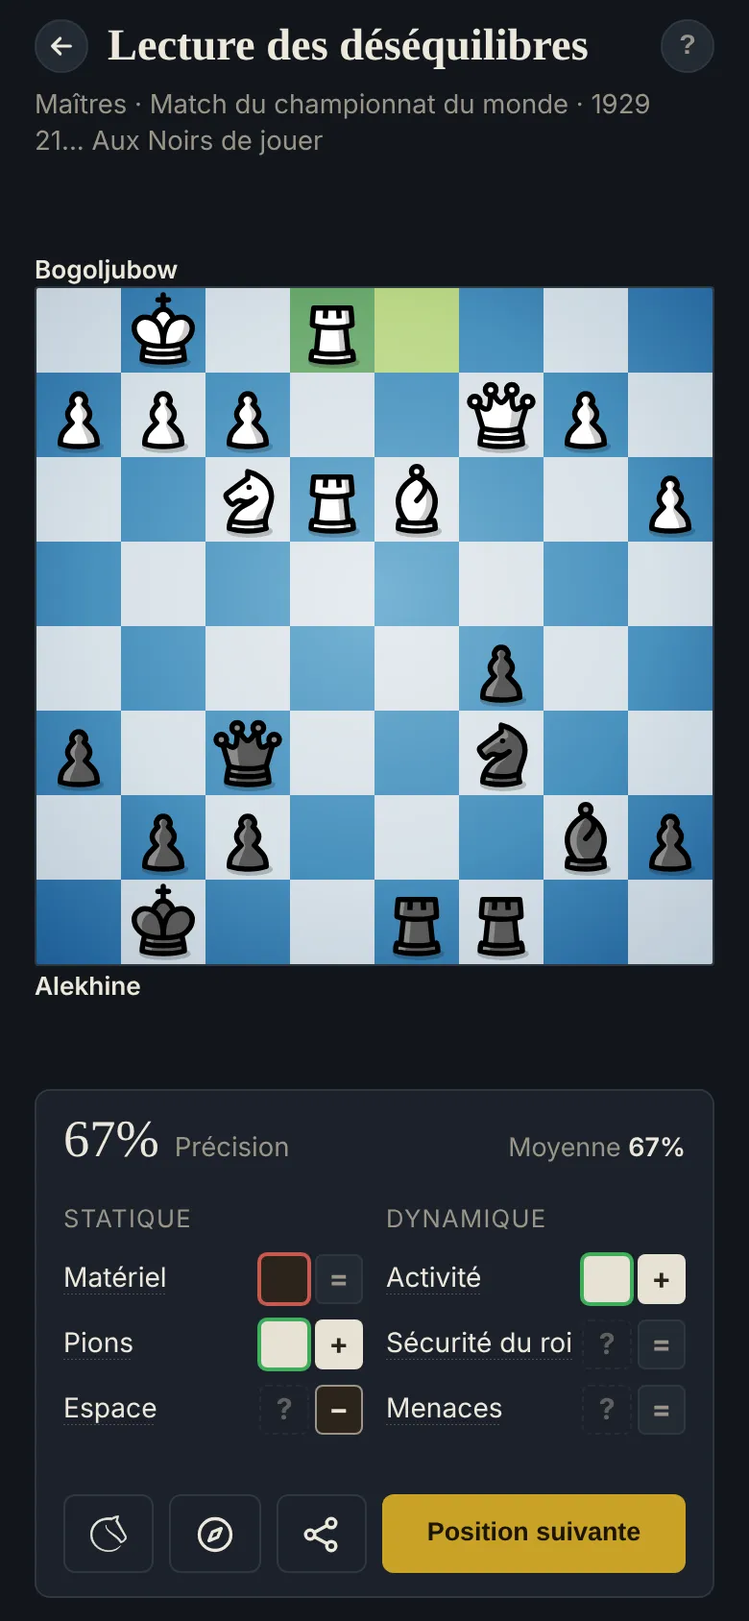
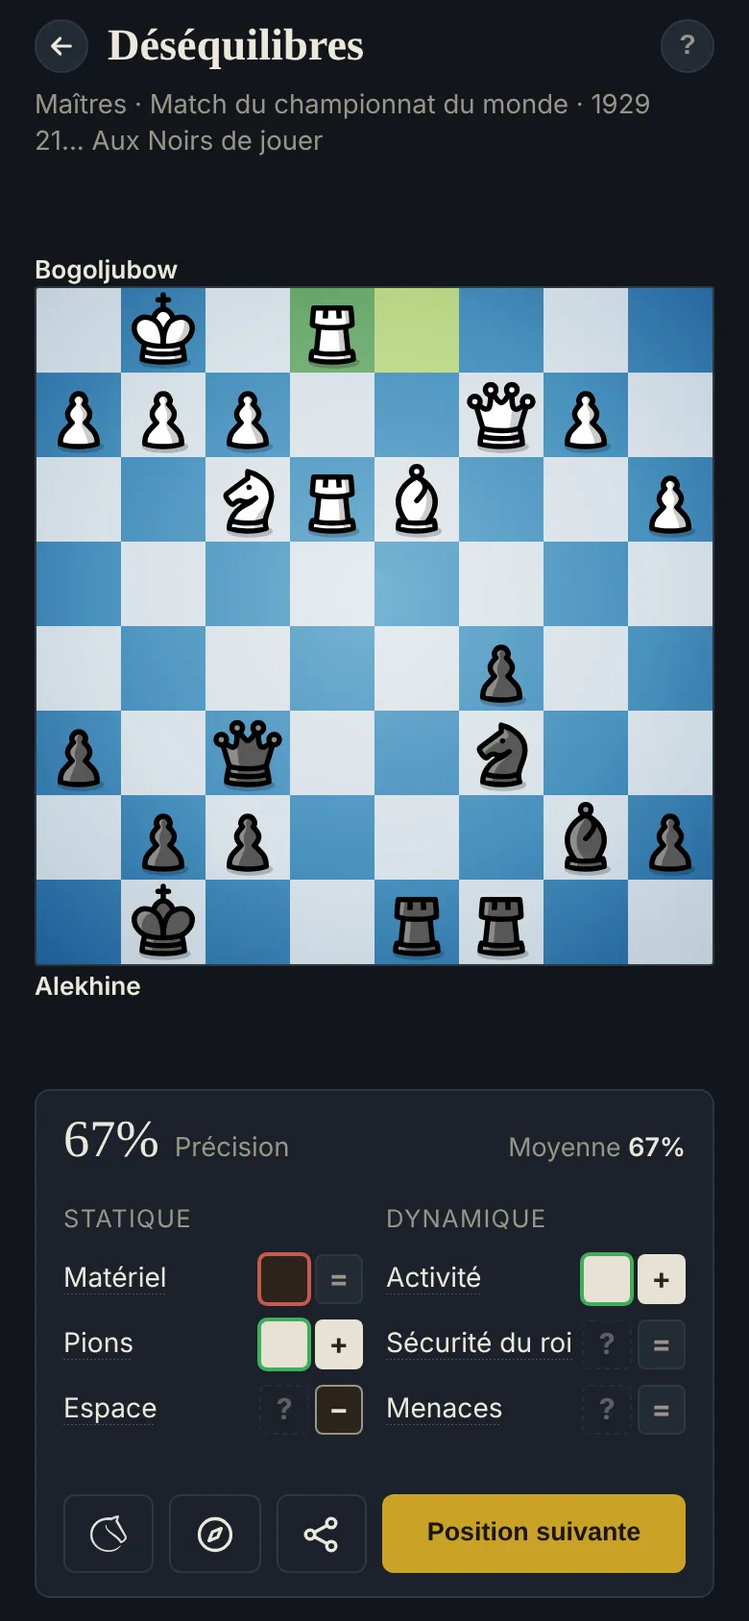
French: the Imbalance reading exercise is now Déséquilibres (app, guide, FAQ, screenshot)
Claude-Session: https://claude.ai/code/session_01MnfZY7zM1xtVVHQnQ5TNNV

Changed region(s): [[0.1538, 0.0, 0.7692, 0.0616]]

diff --git a/fr/guides/index.html b/fr/guides/index.html
@@ -18,7 +18,7 @@
 <meta name="twitter:card" content="summary_large_image">
 <meta name="theme-color" content="#12161B">
 <link rel="icon" type="image/svg+xml" href="../../icons/icon.svg">
-<script type="application/ld+json">[{"@context": "https://schema.org", "@type": "CollectionPage", "name": "Questions fréquentes", "url": "https://chessstrategy.org/fr/guides/", "inLanguage": "fr", "hasPart": [{"@type": "Article", "headline": "Les déséquilibres aux échecs : apprendre à lire une position", "url": "https://chessstrategy.org/fr/guides/desequilibres-aux-echecs/"}, {"@type": "Article", "headline": "Comment trouver un plan aux échecs", "url": "https://chessstrategy.org/fr/guides/trouver-un-plan-aux-echecs/"}, {"@type": "Article", "headline": "Les coups candidats aux échecs : trouver plus d'un bon coup", "url": "https://chessstrategy.org/fr/guides/coups-candidats/"}, {"@type": "Article", "headline": "Comment choisir le meilleur coup aux échecs", "url": "https://chessstrategy.org/fr/guides/choisir-le-meilleur-coup/"}]}, {"@context": "https://schema.org", "@type": "FAQPage", "inLanguage": "fr", "mainEntity": [{"@type": "Question", "name": "Qu'est-ce qu'elle entraîne ?", "acceptedAnswer": {"@type": "Answer", "text": "La stratégie : que faire dans une position calme, quand il n'y a pas de tactique à trouver. Les applications de puzzles entraînent très bien la tactique, mais la plupart des parties se décident dans des positions où la question n'est pas « qu'est-ce qui gagne ? » mais « que se passe-t-il, et que dois-je viser ? »."}}, {"@type": "Question", "name": "À qui s'adresse-t-elle ?", "acceptedAnswer": {"@type": "Answer", "text": "Aux joueurs de club qui connaissent déjà leur tactique et se sentent perdus quand la position est calme : pas de plan, ou un plan qui ne colle pas à la position."}}, {"@type": "Question", "name": "Comment enseigne-t-elle ?", "acceptedAnswer": {"@type": "Answer", "text": "Par la pratique sur de vraies positions, avec une correction après chaque réponse. Chaque idée est rendue concrète : un déséquilibre est un compte de choses sur l'échiquier, dessiné quand vous le touchez, et chaque réponse est vérifiée par un moteur ou par une règle de calcul. Les exercices suivent l'ordre des questions que se posent les joueurs forts."}}, {"@type": "Question", "name": "D'où viennent les idées ?", "acceptedAnswer": {"@type": "Answer", "text": "Des livres classiques de stratégie (Steinitz, Nimzowitsch, Capablanca, Kotov, Silman, Dvoretsky, Aagaard, Shereshevsky) et de l'ancienne évaluation de Stockfish, qui compte les mêmes choses à sa façon."}}, {"@type": "Question", "name": "Y a-t-il un ordre pour réfléchir à une position ?", "acceptedAnswer": {"@type": "Answer", "text": "Oui. Les livres s'accordent sur un ordre, et chaque exercice en entraîne une étape : Une urgence ? Échecs, prises et menaces, des deux côtés (Recherche du plan, phase 1). Qu'est-ce qui diffère entre les deux camps ? Les déséquilibres (Lecture des déséquilibres). Qui est mieux ? Les déséquilibres pesés ensemble décident de votre attitude : le camp qui a l'avantage joue pour s'en servir, l'autre se défend (Recherche du plan, phase 1). Quel plan ? Échanger ou garder les pièces ; ouvrir et attaquer, ou garder fermé et améliorer (Recherche du plan, phase 2). Quels coups ? Des coups candidats qui servent le plan, puis le choix, en vérifiant chacun contre la gaffe (Coups candidats, Choix du coup)."}}, {"@type": "Question", "name": "Pourquoi des exercices séparés, et pas une position du début à la fin ?", "acceptedAnswer": {"@type": "Answer", "text": "Chaque étape a sa correction tout de suite. Sur une seule position, la correction d'une étape trahirait la suivante, et une longue chaîne rend chaque tour lent. La routine quotidienne enchaîne les étapes dans l'ordre, chacune sur sa propre position."}}, {"@type": "Question", "name": "Et le plan de l'adversaire ?", "acceptedAnswer": {"@type": "Answer", "text": "Vérifier les échecs, prises et menaces de l'adversaire (étape 1) est la première partie de la prophylaxie. La question complète, « que veut mon adversaire ? », pourra devenir un exercice à part plus tard."}}, {"@type": "Question", "name": "Qu'est-ce que ma moyenne ?", "acceptedAnswer": {"@type": "Answer", "text": "Votre précision dans un exercice, lissée sur les positions récentes : d'abord une simple moyenne, puis chaque nouvelle position la déplace de 15 % vers son score. Une mauvaise position coûte peu ; une série de bonnes la fait monter régulièrement."}}, {"@type": "Question", "name": "Qu'est-ce que la routine quotidienne ?", "acceptedAnswer": {"@type": "Answer", "text": "Trois positions de chaque exercice dans la journée, en autant de fois que vous voulez, dans l'ordre de la réflexion."}}, {"@type": "Question", "name": "Que sont les positions manquées ?", "acceptedAnswer": {"@type": "Answer", "text": "Les positions où vous avez fait moins que votre moyenne du moment. Revoir les rejoue ; faire au moins votre moyenne en retire une de la liste. Une position jouée aujourd'hui attend demain."}}, {"@type": "Question", "name": "Où sont gardés mes progrès ?", "acceptedAnswer": {"@type": "Answer", "text": "Dans votre navigateur, et dans votre compte quand vous êtes connecté, pour qu'ils vous suivent sur tous vos appareils."}}, {"@type": "Question", "name": "D'où viennent les positions ?", "acceptedAnswer": {"@type": "Answer", "text": "Des parties de championnat du monde et, une fois connecté, de vos propres parties Lichess et Chess.com. Dans vos parties, l'application cherche vos erreurs : la position juste avant un coup qui a beaucoup perdu."}}, {"@type": "Question", "name": "Comment les positions sont-elles choisies ?", "acceptedAnswer": {"@type": "Answer", "text": "Par des règles, vérifiées avec Stockfish : des positions calmes où la stratégie compte, réparties sur la partie, pas trop proches les unes des autres, et pour chaque exercice une raison de poser la question. Les parties nulles ne donnent que leurs positions déséquilibrées."}}, {"@type": "Question", "name": "Quel moteur ?", "acceptedAnswer": {"@type": "Answer", "text": "Stockfish 19 (sa version « lite »), qui tourne dans votre navigateur, si bien que rien n'est envoyé nulle part : chaque position est analysée à la profondeur 20, en quelques secondes au plus. Les positions de maîtres viennent aussi avec leur évaluation calculée à l'avance."}}, {"@type": "Question", "name": "D'où viennent les sons ?", "acceptedAnswer": {"@type": "Answer", "text": "Les sons de coup et de prise sont deux sons découpés dans « chess piece » par imrius (freesound.org), sous licence CC BY 4.0 . Modifications : découpe, bruit de fond réduit, volume égalisé."}}, {"@type": "Question", "name": "Quels livres sont derrière l'application ?", "acceptedAnswer": {"@type": "Answer", "text": "Jeremy Silman, How to Reassess Your Chess : les déséquilibres, et comment ils mènent à un plan. Aron Nimzowitsch, Mon système : colonnes ouvertes, avant-postes, chaînes de pions, blocus, prophylaxie. José Raúl Capablanca, Principes fondamentaux des échecs : les bases de chaque phase. Alexandre Kotov, Pensez comme un grand maître : les coups candidats et l'ordre de la réflexion. Mark Dvoretsky et Artur Youssoupov, Positional Play : la pensée prophylactique. Jacob Aagaard, Grandmaster Preparation: Positional Play : trois questions pour toute position calme. Mikhaïl Chérechevski, Endgame Strategy : le roi, les deux faiblesses, et ne pas se presser."}}]}]</script>
+<script type="application/ld+json">[{"@context": "https://schema.org", "@type": "CollectionPage", "name": "Questions fréquentes", "url": "https://chessstrategy.org/fr/guides/", "inLanguage": "fr", "hasPart": [{"@type": "Article", "headline": "Les déséquilibres aux échecs : apprendre à lire une position", "url": "https://chessstrategy.org/fr/guides/desequilibres-aux-echecs/"}, {"@type": "Article", "headline": "Comment trouver un plan aux échecs", "url": "https://chessstrategy.org/fr/guides/trouver-un-plan-aux-echecs/"}, {"@type": "Article", "headline": "Les coups candidats aux échecs : trouver plus d'un bon coup", "url": "https://chessstrategy.org/fr/guides/coups-candidats/"}, {"@type": "Article", "headline": "Comment choisir le meilleur coup aux échecs", "url": "https://chessstrategy.org/fr/guides/choisir-le-meilleur-coup/"}]}, {"@context": "https://schema.org", "@type": "FAQPage", "inLanguage": "fr", "mainEntity": [{"@type": "Question", "name": "Qu'est-ce qu'elle entraîne ?", "acceptedAnswer": {"@type": "Answer", "text": "La stratégie : que faire dans une position calme, quand il n'y a pas de tactique à trouver. Les applications de puzzles entraînent très bien la tactique, mais la plupart des parties se décident dans des positions où la question n'est pas « qu'est-ce qui gagne ? » mais « que se passe-t-il, et que dois-je viser ? »."}}, {"@type": "Question", "name": "À qui s'adresse-t-elle ?", "acceptedAnswer": {"@type": "Answer", "text": "Aux joueurs de club qui connaissent déjà leur tactique et se sentent perdus quand la position est calme : pas de plan, ou un plan qui ne colle pas à la position."}}, {"@type": "Question", "name": "Comment enseigne-t-elle ?", "acceptedAnswer": {"@type": "Answer", "text": "Par la pratique sur de vraies positions, avec une correction après chaque réponse. Chaque idée est rendue concrète : un déséquilibre est un compte de choses sur l'échiquier, dessiné quand vous le touchez, et chaque réponse est vérifiée par un moteur ou par une règle de calcul. Les exercices suivent l'ordre des questions que se posent les joueurs forts."}}, {"@type": "Question", "name": "D'où viennent les idées ?", "acceptedAnswer": {"@type": "Answer", "text": "Des livres classiques de stratégie (Steinitz, Nimzowitsch, Capablanca, Kotov, Silman, Dvoretsky, Aagaard, Shereshevsky) et de l'ancienne évaluation de Stockfish, qui compte les mêmes choses à sa façon."}}, {"@type": "Question", "name": "Y a-t-il un ordre pour réfléchir à une position ?", "acceptedAnswer": {"@type": "Answer", "text": "Oui. Les livres s'accordent sur un ordre, et chaque exercice en entraîne une étape : Une urgence ? Échecs, prises et menaces, des deux côtés (Recherche du plan, phase 1). Qu'est-ce qui diffère entre les deux camps ? Les déséquilibres (exercice Déséquilibres). Qui est mieux ? Les déséquilibres pesés ensemble décident de votre attitude : le camp qui a l'avantage joue pour s'en servir, l'autre se défend (Recherche du plan, phase 1). Quel plan ? Échanger ou garder les pièces ; ouvrir et attaquer, ou garder fermé et améliorer (Recherche du plan, phase 2). Quels coups ? Des coups candidats qui servent le plan, puis le choix, en vérifiant chacun contre la gaffe (Coups candidats, Choix du coup)."}}, {"@type": "Question", "name": "Pourquoi des exercices séparés, et pas une position du début à la fin ?", "acceptedAnswer": {"@type": "Answer", "text": "Chaque étape a sa correction tout de suite. Sur une seule position, la correction d'une étape trahirait la suivante, et une longue chaîne rend chaque tour lent. La routine quotidienne enchaîne les étapes dans l'ordre, chacune sur sa propre position."}}, {"@type": "Question", "name": "Et le plan de l'adversaire ?", "acceptedAnswer": {"@type": "Answer", "text": "Vérifier les échecs, prises et menaces de l'adversaire (étape 1) est la première partie de la prophylaxie. La question complète, « que veut mon adversaire ? », pourra devenir un exercice à part plus tard."}}, {"@type": "Question", "name": "Qu'est-ce que ma moyenne ?", "acceptedAnswer": {"@type": "Answer", "text": "Votre précision dans un exercice, lissée sur les positions récentes : d'abord une simple moyenne, puis chaque nouvelle position la déplace de 15 % vers son score. Une mauvaise position coûte peu ; une série de bonnes la fait monter régulièrement."}}, {"@type": "Question", "name": "Qu'est-ce que la routine quotidienne ?", "acceptedAnswer": {"@type": "Answer", "text": "Trois positions de chaque exercice dans la journée, en autant de fois que vous voulez, dans l'ordre de la réflexion."}}, {"@type": "Question", "name": "Que sont les positions manquées ?", "acceptedAnswer": {"@type": "Answer", "text": "Les positions où vous avez fait moins que votre moyenne du moment. Revoir les rejoue ; faire au moins votre moyenne en retire une de la liste. Une position jouée aujourd'hui attend demain."}}, {"@type": "Question", "name": "Où sont gardés mes progrès ?", "acceptedAnswer": {"@type": "Answer", "text": "Dans votre navigateur, et dans votre compte quand vous êtes connecté, pour qu'ils vous suivent sur tous vos appareils."}}, {"@type": "Question", "name": "D'où viennent les positions ?", "acceptedAnswer": {"@type": "Answer", "text": "Des parties de championnat du monde et, une fois connecté, de vos propres parties Lichess et Chess.com. Dans vos parties, l'application cherche vos erreurs : la position juste avant un coup qui a beaucoup perdu."}}, {"@type": "Question", "name": "Comment les positions sont-elles choisies ?", "acceptedAnswer": {"@type": "Answer", "text": "Par des règles, vérifiées avec Stockfish : des positions calmes où la stratégie compte, réparties sur la partie, pas trop proches les unes des autres, et pour chaque exercice une raison de poser la question. Les parties nulles ne donnent que leurs positions déséquilibrées."}}, {"@type": "Question", "name": "Quel moteur ?", "acceptedAnswer": {"@type": "Answer", "text": "Stockfish 19 (sa version « lite »), qui tourne dans votre navigateur, si bien que rien n'est envoyé nulle part : chaque position est analysée à la profondeur 20, en quelques secondes au plus. Les positions de maîtres viennent aussi avec leur évaluation calculée à l'avance."}}, {"@type": "Question", "name": "D'où viennent les sons ?", "acceptedAnswer": {"@type": "Answer", "text": "Les sons de coup et de prise sont deux sons découpés dans « chess piece » par imrius (freesound.org), sous licence CC BY 4.0 . Modifications : découpe, bruit de fond réduit, volume égalisé."}}, {"@type": "Question", "name": "Quels livres sont derrière l'application ?", "acceptedAnswer": {"@type": "Answer", "text": "Jeremy Silman, How to Reassess Your Chess : les déséquilibres, et comment ils mènent à un plan. Aron Nimzowitsch, Mon système : colonnes ouvertes, avant-postes, chaînes de pions, blocus, prophylaxie. José Raúl Capablanca, Principes fondamentaux des échecs : les bases de chaque phase. Alexandre Kotov, Pensez comme un grand maître : les coups candidats et l'ordre de la réflexion. Mark Dvoretsky et Artur Youssoupov, Positional Play : la pensée prophylactique. Jacob Aagaard, Grandmaster Preparation: Positional Play : trois questions pour toute position calme. Mikhaïl Chérechevski, Endgame Strategy : le roi, les deux faiblesses, et ne pas se presser."}}]}]</script>
 <style>
   :root{ color-scheme: dark; --bg:#12161B; --panel:#1B2129; --border:#2E3742; --line:#2A313A; --text:#EDE7DC; --mute:#9A9488; --accent:#C9A227; }
   *{ box-sizing:border-box; }
@@ -53,8 +53,8 @@
 <h1>Questions fréquentes</h1>
 <p class="mute">Les puzzles de tactique ont toujours une seule bonne réponse. Les vraies parties, non. ChessStrategy.org entraîne ce qui vient avant le coup : lire la position, choisir un plan, trouver de bons coups, et choisir le meilleur.</p>
 <h2 class="faq-h">Exercices</h2>
-<div class="cards"><a class="card" href="desequilibres-aux-echecs/"><strong>Lecture des déséquilibres</strong><span>Apprendre à lire une position</span></a><a class="card" href="trouver-un-plan-aux-echecs/"><strong>Recherche du plan</strong><span>Comment trouver un plan général aux échecs</span></a><a class="card" href="coups-candidats/"><strong>Coups candidats</strong><span>Trouver un ou plusieurs bons coups</span></a><a class="card" href="choisir-le-meilleur-coup/"><strong>Choix du coup</strong><span>Comment choisir le meilleur coup</span></a></div>
-<h2 class="faq-h">À propos de l&#x27;application</h2><details><summary>Qu&#x27;est-ce qu&#x27;elle entraîne ?</summary><div class="a">La stratégie : que faire dans une position calme, quand il n'y a pas de tactique à trouver. Les applications de puzzles entraînent très bien la tactique, mais la plupart des parties se décident dans des positions où la question n'est pas « qu'est-ce qui gagne ? » mais « que se passe-t-il, et que dois-je viser ? ».</div></details><details><summary>À qui s&#x27;adresse-t-elle ?</summary><div class="a">Aux joueurs de club qui connaissent déjà leur tactique et se sentent perdus quand la position est calme : pas de plan, ou un plan qui ne colle pas à la position.</div></details><details><summary>Comment enseigne-t-elle ?</summary><div class="a">Par la pratique sur de vraies positions, avec une correction après chaque réponse. Chaque idée est rendue concrète : un déséquilibre est un compte de choses sur l'échiquier, dessiné quand vous le touchez, et chaque réponse est vérifiée par un moteur ou par une règle de calcul. Les exercices suivent l'ordre des questions que se posent les joueurs forts.</div></details><details><summary>D&#x27;où viennent les idées ?</summary><div class="a">Des livres classiques de stratégie (Steinitz, Nimzowitsch, Capablanca, Kotov, Silman, Dvoretsky, Aagaard, Shereshevsky) et de l'ancienne évaluation de Stockfish, qui compte les mêmes choses à sa façon.</div></details><h2 class="faq-h">La démarche de réflexion</h2><details><summary>Y a-t-il un ordre pour réfléchir à une position ?</summary><div class="a">Oui. Les livres s'accordent sur un ordre, et chaque exercice en entraîne une étape :<ol><li><b>Une urgence ?</b> Échecs, prises et menaces, des deux côtés (Recherche du plan, phase 1).</li><li><b>Qu'est-ce qui diffère entre les deux camps ?</b> Les déséquilibres (Lecture des déséquilibres).</li><li><b>Qui est mieux ?</b> Les déséquilibres pesés ensemble décident de votre attitude : le camp qui a l'avantage joue pour s'en servir, l'autre se défend (Recherche du plan, phase 1).</li><li><b>Quel plan ?</b> Échanger ou garder les pièces ; ouvrir et attaquer, ou garder fermé et améliorer (Recherche du plan, phase 2).</li><li><b>Quels coups ?</b> Des coups candidats qui servent le plan, puis le choix, en vérifiant chacun contre la gaffe (Coups candidats, Choix du coup).</li></ol></div></details><details><summary>Pourquoi des exercices séparés, et pas une position du début à la fin ?</summary><div class="a">Chaque étape a sa correction tout de suite. Sur une seule position, la correction d'une étape trahirait la suivante, et une longue chaîne rend chaque tour lent. La routine quotidienne enchaîne les étapes dans l'ordre, chacune sur sa propre position.</div></details><details><summary>Et le plan de l&#x27;adversaire ?</summary><div class="a">Vérifier les échecs, prises et menaces de l'adversaire (étape 1) est la première partie de la prophylaxie. La question complète, « que veut mon adversaire ? », pourra devenir un exercice à part plus tard.</div></details><h2 class="faq-h">Scores et progrès</h2><details><summary>Qu&#x27;est-ce que ma moyenne ?</summary><div class="a">Votre précision dans un exercice, lissée sur les positions récentes : d'abord une simple moyenne, puis chaque nouvelle position la déplace de 15 % vers son score. Une mauvaise position coûte peu ; une série de bonnes la fait monter régulièrement.</div></details><details><summary>Qu&#x27;est-ce que la routine quotidienne ?</summary><div class="a">Trois positions de chaque exercice dans la journée, en autant de fois que vous voulez, dans l'ordre de la réflexion.</div></details><details><summary>Que sont les positions manquées ?</summary><div class="a">Les positions où vous avez fait moins que votre moyenne du moment. Revoir les rejoue ; faire au moins votre moyenne en retire une de la liste. Une position jouée aujourd'hui attend demain.</div></details><details><summary>Où sont gardés mes progrès ?</summary><div class="a">Dans votre navigateur, et dans votre compte quand vous êtes connecté, pour qu'ils vous suivent sur tous vos appareils.</div></details><h2 class="faq-h">Les positions et le moteur</h2><details><summary>D&#x27;où viennent les positions ?</summary><div class="a">Des parties de championnat du monde et, une fois connecté, de vos propres parties Lichess et Chess.com. Dans vos parties, l'application cherche vos erreurs : la position juste avant un coup qui a beaucoup perdu.</div></details><details><summary>Comment les positions sont-elles choisies ?</summary><div class="a">Par des règles, vérifiées avec Stockfish : des positions calmes où la stratégie compte, réparties sur la partie, pas trop proches les unes des autres, et pour chaque exercice une raison de poser la question. Les parties nulles ne donnent que leurs positions déséquilibrées.</div></details><details><summary>Quel moteur ?</summary><div class="a">Stockfish 19 (sa version « lite »), qui tourne dans votre navigateur, si bien que rien n'est envoyé nulle part : chaque position est analysée à la profondeur 20, en quelques secondes au plus. Les positions de maîtres viennent aussi avec leur évaluation calculée à l'avance.</div></details><h2 class="faq-h">Crédits et lectures</h2><details><summary>D&#x27;où viennent les sons ?</summary><div class="a">Les sons de coup et de prise sont deux sons découpés dans <a href="https://freesound.org/s/792572/">« chess piece » par imrius</a> (freesound.org), sous licence <a href="https://creativecommons.org/licenses/by/4.0/">CC BY 4.0</a>. Modifications : découpe, bruit de fond réduit, volume égalisé.</div></details><details><summary>Quels livres sont derrière l&#x27;application ?</summary><div class="a"><ul><li><b>Jeremy Silman, <i>How to Reassess Your Chess</i> :</b> les déséquilibres, et comment ils mènent à un plan.</li><li><b>Aron Nimzowitsch, <i>Mon système</i> :</b> colonnes ouvertes, avant-postes, chaînes de pions, blocus, prophylaxie.</li><li><b>José Raúl Capablanca, <i>Principes fondamentaux des échecs</i> :</b> les bases de chaque phase.</li><li><b>Alexandre Kotov, <i>Pensez comme un grand maître</i> :</b> les coups candidats et l'ordre de la réflexion.</li><li><b>Mark Dvoretsky et Artur Youssoupov, <i>Positional Play</i> :</b> la pensée prophylactique.</li><li><b>Jacob Aagaard, <i>Grandmaster Preparation: Positional Play</i> :</b> trois questions pour toute position calme.</li><li><b>Mikhaïl Chérechevski, <i>Endgame Strategy</i> :</b> le roi, les deux faiblesses, et ne pas se presser.</li></ul></div></details>
+<div class="cards"><a class="card" href="desequilibres-aux-echecs/"><strong>Déséquilibres</strong><span>Apprendre à lire une position</span></a><a class="card" href="trouver-un-plan-aux-echecs/"><strong>Recherche du plan</strong><span>Comment trouver un plan général aux échecs</span></a><a class="card" href="coups-candidats/"><strong>Coups candidats</strong><span>Trouver un ou plusieurs bons coups</span></a><a class="card" href="choisir-le-meilleur-coup/"><strong>Choix du coup</strong><span>Comment choisir le meilleur coup</span></a></div>
+<h2 class="faq-h">À propos de l&#x27;application</h2><details><summary>Qu&#x27;est-ce qu&#x27;elle entraîne ?</summary><div class="a">La stratégie : que faire dans une position calme, quand il n'y a pas de tactique à trouver. Les applications de puzzles entraînent très bien la tactique, mais la plupart des parties se décident dans des positions où la question n'est pas « qu'est-ce qui gagne ? » mais « que se passe-t-il, et que dois-je viser ? ».</div></details><details><summary>À qui s&#x27;adresse-t-elle ?</summary><div class="a">Aux joueurs de club qui connaissent déjà leur tactique et se sentent perdus quand la position est calme : pas de plan, ou un plan qui ne colle pas à la position.</div></details><details><summary>Comment enseigne-t-elle ?</summary><div class="a">Par la pratique sur de vraies positions, avec une correction après chaque réponse. Chaque idée est rendue concrète : un déséquilibre est un compte de choses sur l'échiquier, dessiné quand vous le touchez, et chaque réponse est vérifiée par un moteur ou par une règle de calcul. Les exercices suivent l'ordre des questions que se posent les joueurs forts.</div></details><details><summary>D&#x27;où viennent les idées ?</summary><div class="a">Des livres classiques de stratégie (Steinitz, Nimzowitsch, Capablanca, Kotov, Silman, Dvoretsky, Aagaard, Shereshevsky) et de l'ancienne évaluation de Stockfish, qui compte les mêmes choses à sa façon.</div></details><h2 class="faq-h">La démarche de réflexion</h2><details><summary>Y a-t-il un ordre pour réfléchir à une position ?</summary><div class="a">Oui. Les livres s'accordent sur un ordre, et chaque exercice en entraîne une étape :<ol><li><b>Une urgence ?</b> Échecs, prises et menaces, des deux côtés (Recherche du plan, phase 1).</li><li><b>Qu'est-ce qui diffère entre les deux camps ?</b> Les déséquilibres (exercice Déséquilibres).</li><li><b>Qui est mieux ?</b> Les déséquilibres pesés ensemble décident de votre attitude : le camp qui a l'avantage joue pour s'en servir, l'autre se défend (Recherche du plan, phase 1).</li><li><b>Quel plan ?</b> Échanger ou garder les pièces ; ouvrir et attaquer, ou garder fermé et améliorer (Recherche du plan, phase 2).</li><li><b>Quels coups ?</b> Des coups candidats qui servent le plan, puis le choix, en vérifiant chacun contre la gaffe (Coups candidats, Choix du coup).</li></ol></div></details><details><summary>Pourquoi des exercices séparés, et pas une position du début à la fin ?</summary><div class="a">Chaque étape a sa correction tout de suite. Sur une seule position, la correction d'une étape trahirait la suivante, et une longue chaîne rend chaque tour lent. La routine quotidienne enchaîne les étapes dans l'ordre, chacune sur sa propre position.</div></details><details><summary>Et le plan de l&#x27;adversaire ?</summary><div class="a">Vérifier les échecs, prises et menaces de l'adversaire (étape 1) est la première partie de la prophylaxie. La question complète, « que veut mon adversaire ? », pourra devenir un exercice à part plus tard.</div></details><h2 class="faq-h">Scores et progrès</h2><details><summary>Qu&#x27;est-ce que ma moyenne ?</summary><div class="a">Votre précision dans un exercice, lissée sur les positions récentes : d'abord une simple moyenne, puis chaque nouvelle position la déplace de 15 % vers son score. Une mauvaise position coûte peu ; une série de bonnes la fait monter régulièrement.</div></details><details><summary>Qu&#x27;est-ce que la routine quotidienne ?</summary><div class="a">Trois positions de chaque exercice dans la journée, en autant de fois que vous voulez, dans l'ordre de la réflexion.</div></details><details><summary>Que sont les positions manquées ?</summary><div class="a">Les positions où vous avez fait moins que votre moyenne du moment. Revoir les rejoue ; faire au moins votre moyenne en retire une de la liste. Une position jouée aujourd'hui attend demain.</div></details><details><summary>Où sont gardés mes progrès ?</summary><div class="a">Dans votre navigateur, et dans votre compte quand vous êtes connecté, pour qu'ils vous suivent sur tous vos appareils.</div></details><h2 class="faq-h">Les positions et le moteur</h2><details><summary>D&#x27;où viennent les positions ?</summary><div class="a">Des parties de championnat du monde et, une fois connecté, de vos propres parties Lichess et Chess.com. Dans vos parties, l'application cherche vos erreurs : la position juste avant un coup qui a beaucoup perdu.</div></details><details><summary>Comment les positions sont-elles choisies ?</summary><div class="a">Par des règles, vérifiées avec Stockfish : des positions calmes où la stratégie compte, réparties sur la partie, pas trop proches les unes des autres, et pour chaque exercice une raison de poser la question. Les parties nulles ne donnent que leurs positions déséquilibrées.</div></details><details><summary>Quel moteur ?</summary><div class="a">Stockfish 19 (sa version « lite »), qui tourne dans votre navigateur, si bien que rien n'est envoyé nulle part : chaque position est analysée à la profondeur 20, en quelques secondes au plus. Les positions de maîtres viennent aussi avec leur évaluation calculée à l'avance.</div></details><h2 class="faq-h">Crédits et lectures</h2><details><summary>D&#x27;où viennent les sons ?</summary><div class="a">Les sons de coup et de prise sont deux sons découpés dans <a href="https://freesound.org/s/792572/">« chess piece » par imrius</a> (freesound.org), sous licence <a href="https://creativecommons.org/licenses/by/4.0/">CC BY 4.0</a>. Modifications : découpe, bruit de fond réduit, volume égalisé.</div></details><details><summary>Quels livres sont derrière l&#x27;application ?</summary><div class="a"><ul><li><b>Jeremy Silman, <i>How to Reassess Your Chess</i> :</b> les déséquilibres, et comment ils mènent à un plan.</li><li><b>Aron Nimzowitsch, <i>Mon système</i> :</b> colonnes ouvertes, avant-postes, chaînes de pions, blocus, prophylaxie.</li><li><b>José Raúl Capablanca, <i>Principes fondamentaux des échecs</i> :</b> les bases de chaque phase.</li><li><b>Alexandre Kotov, <i>Pensez comme un grand maître</i> :</b> les coups candidats et l'ordre de la réflexion.</li><li><b>Mark Dvoretsky et Artur Youssoupov, <i>Positional Play</i> :</b> la pensée prophylactique.</li><li><b>Jacob Aagaard, <i>Grandmaster Preparation: Positional Play</i> :</b> trois questions pour toute position calme.</li><li><b>Mikhaïl Chérechevski, <i>Endgame Strategy</i> :</b> le roi, les deux faiblesses, et ne pas se presser.</li></ul></div></details>
 </main>
 </body>
 </html>

diff --git a/fr/guides/desequilibres-aux-echecs/index.html b/fr/guides/desequilibres-aux-echecs/index.html
@@ -18,7 +18,7 @@
 <meta name="twitter:card" content="summary_large_image">
 <meta name="theme-color" content="#12161B">
 <link rel="icon" type="image/svg+xml" href="../../../icons/icon.svg">
-<script type="application/ld+json">[{"@context": "https://schema.org", "@type": "Article", "headline": "Les déséquilibres aux échecs : apprendre à lire une position", "description": "Ce que sont les déséquilibres aux échecs (matériel, pions, espace, activité, sécurité du roi, menaces), comment les peser, et un exercice gratuit pour s'entraîner à les lire sur des parties de maîtres et vos propres parties.", "inLanguage": "fr", "image": "https://chessstrategy.org/learn/img/imbalance-reading-fr.webp", "url": "https://chessstrategy.org/fr/guides/desequilibres-aux-echecs/", "publisher": {"@type": "Organization", "name": "ChessStrategy.org", "url": "https://chessstrategy.org/"}}, {"@context": "https://schema.org", "@type": "BreadcrumbList", "itemListElement": [{"@type": "ListItem", "position": 1, "name": "Questions fréquentes", "item": "https://chessstrategy.org/fr/guides/"}, {"@type": "ListItem", "position": 2, "name": "Lecture des déséquilibres", "item": "https://chessstrategy.org/fr/guides/desequilibres-aux-echecs/"}]}]</script>
+<script type="application/ld+json">[{"@context": "https://schema.org", "@type": "Article", "headline": "Les déséquilibres aux échecs : apprendre à lire une position", "description": "Ce que sont les déséquilibres aux échecs (matériel, pions, espace, activité, sécurité du roi, menaces), comment les peser, et un exercice gratuit pour s'entraîner à les lire sur des parties de maîtres et vos propres parties.", "inLanguage": "fr", "image": "https://chessstrategy.org/learn/img/imbalance-reading-fr.webp", "url": "https://chessstrategy.org/fr/guides/desequilibres-aux-echecs/", "publisher": {"@type": "Organization", "name": "ChessStrategy.org", "url": "https://chessstrategy.org/"}}, {"@context": "https://schema.org", "@type": "BreadcrumbList", "itemListElement": [{"@type": "ListItem", "position": 1, "name": "Questions fréquentes", "item": "https://chessstrategy.org/fr/guides/"}, {"@type": "ListItem", "position": 2, "name": "Déséquilibres", "item": "https://chessstrategy.org/fr/guides/desequilibres-aux-echecs/"}]}]</script>
 <style>
   :root{ color-scheme: dark; --bg:#12161B; --panel:#1B2129; --border:#2E3742; --line:#2A313A; --text:#EDE7DC; --mute:#9A9488; --accent:#C9A227; }
   *{ box-sizing:border-box; }
@@ -51,10 +51,10 @@
 <header><a class="brand" href="../../../"><img src="../../../icons/icon.svg" alt="">ChessStrategy.org</a><a class="lang" href="../../../learn/chess-imbalances/" hreflang="en" lang="en" aria-label="Read in English" title="Read in English">FR</a></header>
 <main>
 <p class="back"><a href="../">‹ FAQ</a></p>
-<h1>Lecture des déséquilibres</h1>
+<h1>Déséquilibres</h1>
 <p class="sub">Apprendre à lire une position</p>
 <p class="lead">Chaque position est un ensemble de différences entre les deux camps. Les joueurs forts repèrent les quelques-unes qui décident de la partie, et bâtissent leur plan autour : une idée rendue célèbre par Jeremy Silman.</p>
-<figure><img src="../../../learn/img/imbalance-reading-fr.webp" width="390" height="844" alt="Correction de Lecture des déséquilibres sur une position du championnat du monde 1929 : Activité et Pions aux Blancs, justes ; Matériel donné aux Noirs alors qu&#x27;il est équilibré ; Espace aux Noirs manqué" loading="lazy"><figcaption>Activité et Pions aux Blancs : juste. Le Matériel a été donné aux Noirs, mais il est équilibré : c'est l'Espace qu'il fallait choisir.</figcaption></figure>
+<figure><img src="../../../learn/img/imbalance-reading-fr.webp" width="390" height="844" alt="Correction de Déséquilibres sur une position du championnat du monde 1929 : Activité et Pions aux Blancs, justes ; Matériel donné aux Noirs alors qu&#x27;il est équilibré ; Espace aux Noirs manqué" loading="lazy"><figcaption>Activité et Pions aux Blancs : juste. Le Matériel a été donné aux Noirs, mais il est équilibré : c'est l'Espace qu'il fallait choisir.</figcaption></figure>
 <h2>Les six déséquilibres</h2>
 <ul>
   <li><strong>Matériel</strong> : pion 1, cavalier et fou 3, tour 5, dame 9 ; la paire de fous ajoute un demi-pion.</li>

diff --git a/app/index.html b/app/index.html
@@ -6852,7 +6852,7 @@ const I18N_FR = new Map(Object.entries(/*I18N_FR*/{
 "Positions from": "Positions de",
 "Learn from master games and your own mistakes.": "Apprenez des parties de maîtres et de vos propres erreurs.",
 "Train your strategy beyond tactics puzzles: gauge the imbalances, evaluate the position, find good candidates, choose the best.": "Entraînez votre stratégie au-delà des problèmes tactiques : jaugez les déséquilibres, évaluez la position, trouvez de bons candidats, choisissez le meilleur.",
-"Imbalance reading": "Lecture des déséquilibres",
+"Imbalance reading": "Déséquilibres",
 "Candidate moves": "Coups candidats",
 "Move selection": "Choix du coup",
 "Imbalances": "Déséquilibres",
@@ -7357,7 +7357,7 @@ const I18N_FR_RE = [
   [/^\+ from (\S+) (point|piece)s? apart, \+\+ from ([^\s.]+)(\.?)$/, (m, a, u, b, dot)=>`+ dès ${a.replace('.', ',')} ${u==='piece' ? 'pièce' : 'point'}${a==='1' || a==='½' ? '' : 's'} d'écart, ++ dès ${b.replace('.', ',')}${dot}`],
   [/^(positions?) played since (.+)$/, (m, p, d)=>(p==='position' ? 'position jouée' : 'positions jouées') + ' depuis le ' + d],
   [/^(Total )?([+−]?)(\d+)\.(\d)$/, (m, t, s, a, b)=>(t || '') + s + a + ',' + b],   // decimal comma on the board's numbers
-  [/^No positions played yet in (.+)\.$/, (m, a)=>`Aucune position jouée pour l'instant en ${tr(a)}.`],
+  [/^No positions played yet in (.+)\.$/, (m, a)=>`Aucune position jouée pour l'instant (${tr(a)}).`],
   [/^Analysing your games: (\d+) of (\d+) done…$/, 'Analyse de vos parties : $1 sur $2 faites…'],
   [/^Lichess connected: your last (\d+) Lichess games will sync automatically\.$/, 'Lichess connecté : vos $1 dernières parties Lichess se synchroniseront automatiquement.'],
   [/^No Chess\.com player named (.+)\.$/, 'Aucun joueur Chess.com nommé $1.'],

diff --git a/beta/index.html b/beta/index.html
@@ -6885,7 +6885,7 @@ const I18N_FR = new Map(Object.entries(/*I18N_FR*/{
 "Positions from": "Positions de",
 "Learn from master games and your own mistakes.": "Apprenez des parties de maîtres et de vos propres erreurs.",
 "Train your strategy beyond tactics puzzles: gauge the imbalances, evaluate the position, find good candidates, choose the best.": "Entraînez votre stratégie au-delà des problèmes tactiques : jaugez les déséquilibres, évaluez la position, trouvez de bons candidats, choisissez le meilleur.",
-"Imbalance reading": "Lecture des déséquilibres",
+"Imbalance reading": "Déséquilibres",
 "Candidate moves": "Coups candidats",
 "Move selection": "Choix du coup",
 "Imbalances": "Déséquilibres",
@@ -7390,7 +7390,7 @@ const I18N_FR_RE = [
   [/^\+ from (\S+) (point|piece)s? apart, \+\+ from ([^\s.]+)(\.?)$/, (m, a, u, b, dot)=>`+ dès ${a.replace('.', ',')} ${u==='piece' ? 'pièce' : 'point'}${a==='1' || a==='½' ? '' : 's'} d'écart, ++ dès ${b.replace('.', ',')}${dot}`],
   [/^(positions?) played since (.+)$/, (m, p, d)=>(p==='position' ? 'position jouée' : 'positions jouées') + ' depuis le ' + d],
   [/^(Total )?([+−]?)(\d+)\.(\d)$/, (m, t, s, a, b)=>(t || '') + s + a + ',' + b],   // decimal comma on the board's numbers
-  [/^No positions played yet in (.+)\.$/, (m, a)=>`Aucune position jouée pour l'instant en ${tr(a)}.`],
+  [/^No positions played yet in (.+)\.$/, (m, a)=>`Aucune position jouée pour l'instant (${tr(a)}).`],
   [/^Analysing your games: (\d+) of (\d+) done…$/, 'Analyse de vos parties : $1 sur $2 faites…'],
   [/^Lichess connected: your last (\d+) Lichess games will sync automatically\.$/, 'Lichess connecté : vos $1 dernières parties Lichess se synchroniseront automatiquement.'],
   [/^No Chess\.com player named (.+)\.$/, 'Aucun joueur Chess.com nommé $1.'],

diff --git a/index.html b/index.html
@@ -6883,7 +6883,7 @@ const I18N_FR = new Map(Object.entries(/*I18N_FR*/{
 "Positions from": "Positions de",
 "Learn from master games and your own mistakes.": "Apprenez des parties de maîtres et de vos propres erreurs.",
 "Train your strategy beyond tactics puzzles: gauge the imbalances, evaluate the position, find good candidates, choose the best.": "Entraînez votre stratégie au-delà des problèmes tactiques : jaugez les déséquilibres, évaluez la position, trouvez de bons candidats, choisissez le meilleur.",
-"Imbalance reading": "Lecture des déséquilibres",
+"Imbalance reading": "Déséquilibres",
 "Candidate moves": "Coups candidats",
 "Move selection": "Choix du coup",
 "Imbalances": "Déséquilibres",
@@ -7388,7 +7388,7 @@ const I18N_FR_RE = [
   [/^\+ from (\S+) (point|piece)s? apart, \+\+ from ([^\s.]+)(\.?)$/, (m, a, u, b, dot)=>`+ dès ${a.replace('.', ',')} ${u==='piece' ? 'pièce' : 'point'}${a==='1' || a==='½' ? '' : 's'} d'écart, ++ dès ${b.replace('.', ',')}${dot}`],
   [/^(positions?) played since (.+)$/, (m, p, d)=>(p==='position' ? 'position jouée' : 'positions jouées') + ' depuis le ' + d],
   [/^(Total )?([+−]?)(\d+)\.(\d)$/, (m, t, s, a, b)=>(t || '') + s + a + ',' + b],   // decimal comma on the board's numbers
-  [/^No positions played yet in (.+)\.$/, (m, a)=>`Aucune position jouée pour l'instant en ${tr(a)}.`],
+  [/^No positions played yet in (.+)\.$/, (m, a)=>`Aucune position jouée pour l'instant (${tr(a)}).`],
   [/^Analysing your games: (\d+) of (\d+) done…$/, 'Analyse de vos parties : $1 sur $2 faites…'],
   [/^Lichess connected: your last (\d+) Lichess games will sync automatically\.$/, 'Lichess connecté : vos $1 dernières parties Lichess se synchroniseront automatiquement.'],
   [/^No Chess\.com player named (.+)\.$/, 'Aucun joueur Chess.com nommé $1.'],

diff --git a/scripts/build-pages.py b/scripts/build-pages.py
@@ -34,11 +34,11 @@ GUIDES = [
 <p>Choose 3 of the imbalances that decide the position (there can be more than 3), and who has the edge. The review shows each one's size: <strong>=</strong> balanced; <strong>+</strong> or <strong>++</strong> a small or big edge for White, <strong>−</strong> or <strong>−−</strong> for Black. A choice among the 3 biggest edges, on the right side, scores full points; a smaller edge, half; a balanced one or the wrong side, nothing.</p>
 <p>Find the ++ first. One big imbalance can outweigh several small ones, and tactics beat them all.</p>
 """),
-    fr=dict(slug='desequilibres-aux-echecs', name='Lecture des déséquilibres', sub='Apprendre à lire une position',
+    fr=dict(slug='desequilibres-aux-echecs', name='Déséquilibres', sub='Apprendre à lire une position',
       title='Les déséquilibres aux échecs : apprendre à lire une position',
       desc="Ce que sont les déséquilibres aux échecs (matériel, pions, espace, activité, sécurité du roi, menaces), comment les peser, et un exercice gratuit pour s'entraîner à les lire sur des parties de maîtres et vos propres parties.",
       lead="Chaque position est un ensemble de différences entre les deux camps. Les joueurs forts repèrent les quelques-unes qui décident de la partie, et bâtissent leur plan autour : une idée rendue célèbre par Jeremy Silman.",
-      alt="Correction de Lecture des déséquilibres sur une position du championnat du monde 1929 : Activité et Pions aux Blancs, justes ; Matériel donné aux Noirs alors qu'il est équilibré ; Espace aux Noirs manqué",
+      alt="Correction de Déséquilibres sur une position du championnat du monde 1929 : Activité et Pions aux Blancs, justes ; Matériel donné aux Noirs alors qu'il est équilibré ; Espace aux Noirs manqué",
       caption="Activité et Pions aux Blancs : juste. Le Matériel a été donné aux Noirs, mais il est équilibré : c'est l'Espace qu'il fallait choisir.",
       body="""
 <h2>Les six déséquilibres</h2>
@@ -212,7 +212,7 @@ FAQ = {
     ("D'où viennent les idées ?", "Des livres classiques de stratégie (Steinitz, Nimzowitsch, Capablanca, Kotov, Silman, Dvoretsky, Aagaard, Shereshevsky) et de l'ancienne évaluation de Stockfish, qui compte les mêmes choses à sa façon."),
   ]),
   ("La démarche de réflexion", [
-    ("Y a-t-il un ordre pour réfléchir à une position ?", "Oui. Les livres s'accordent sur un ordre, et chaque exercice en entraîne une étape :<ol><li><b>Une urgence ?</b> Échecs, prises et menaces, des deux côtés (Recherche du plan, phase 1).</li><li><b>Qu'est-ce qui diffère entre les deux camps ?</b> Les déséquilibres (Lecture des déséquilibres).</li><li><b>Qui est mieux ?</b> Les déséquilibres pesés ensemble décident de votre attitude : le camp qui a l'avantage joue pour s'en servir, l'autre se défend (Recherche du plan, phase 1).</li><li><b>Quel plan ?</b> Échanger ou garder les pièces ; ouvrir et attaquer, ou garder fermé et améliorer (Recherche du plan, phase 2).</li><li><b>Quels coups ?</b> Des coups candidats qui servent le plan, puis le choix, en vérifiant chacun contre la gaffe (Coups candidats, Choix du coup).</li></ol>"),
+    ("Y a-t-il un ordre pour réfléchir à une position ?", "Oui. Les livres s'accordent sur un ordre, et chaque exercice en entraîne une étape :<ol><li><b>Une urgence ?</b> Échecs, prises et menaces, des deux côtés (Recherche du plan, phase 1).</li><li><b>Qu'est-ce qui diffère entre les deux camps ?</b> Les déséquilibres (exercice Déséquilibres).</li><li><b>Qui est mieux ?</b> Les déséquilibres pesés ensemble décident de votre attitude : le camp qui a l'avantage joue pour s'en servir, l'autre se défend (Recherche du plan, phase 1).</li><li><b>Quel plan ?</b> Échanger ou garder les pièces ; ouvrir et attaquer, ou garder fermé et améliorer (Recherche du plan, phase 2).</li><li><b>Quels coups ?</b> Des coups candidats qui servent le plan, puis le choix, en vérifiant chacun contre la gaffe (Coups candidats, Choix du coup).</li></ol>"),
     ("Pourquoi des exercices séparés, et pas une position du début à la fin ?", "Chaque étape a sa correction tout de suite. Sur une seule position, la correction d'une étape trahirait la suivante, et une longue chaîne rend chaque tour lent. La routine quotidienne enchaîne les étapes dans l'ordre, chacune sur sa propre position."),
     ("Et le plan de l'adversaire ?", "Vérifier les échecs, prises et menaces de l'adversaire (étape 1) est la première partie de la prophylaxie. La question complète, « que veut mon adversaire ? », pourra devenir un exercice à part plus tard."),
   ]),
